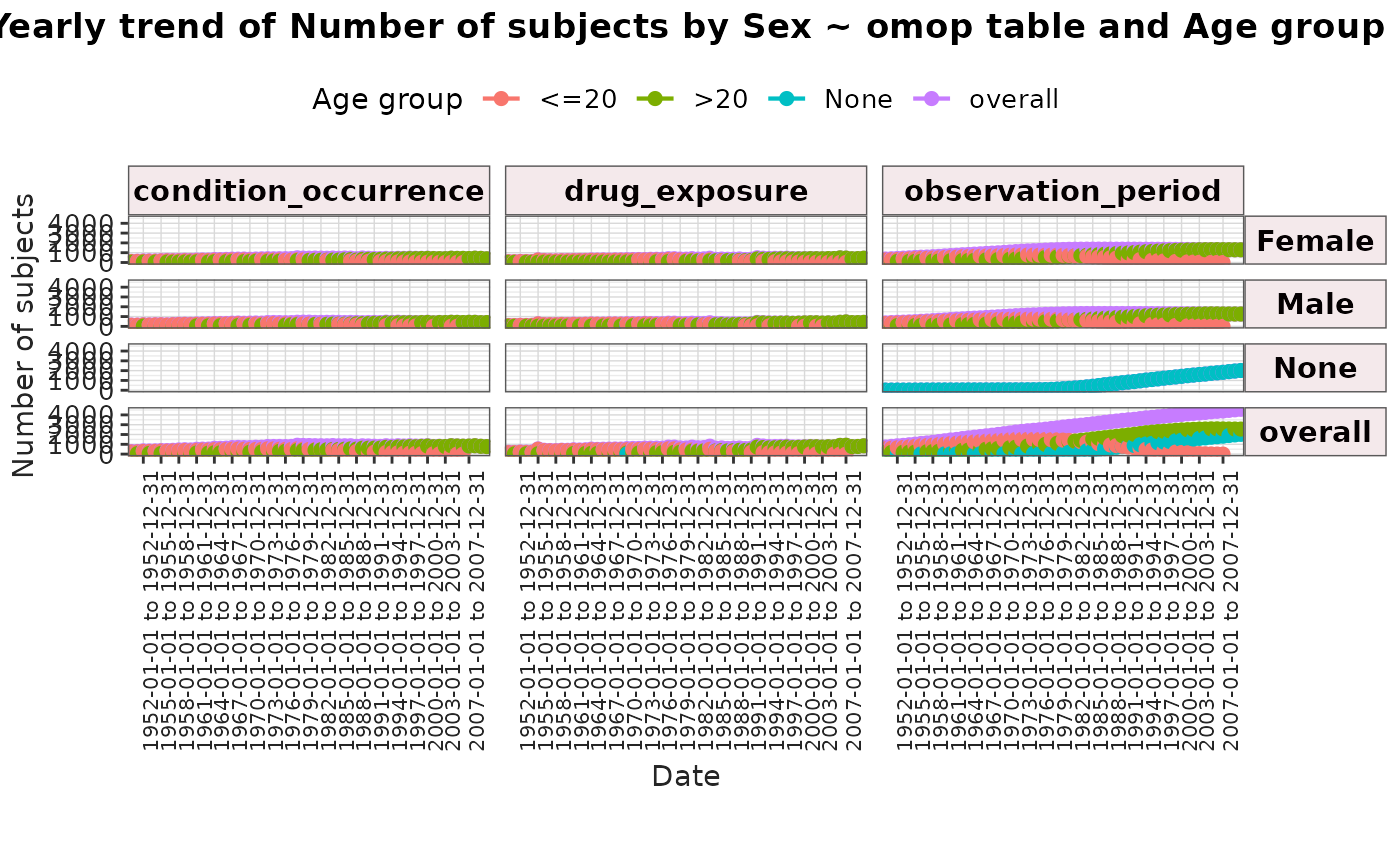
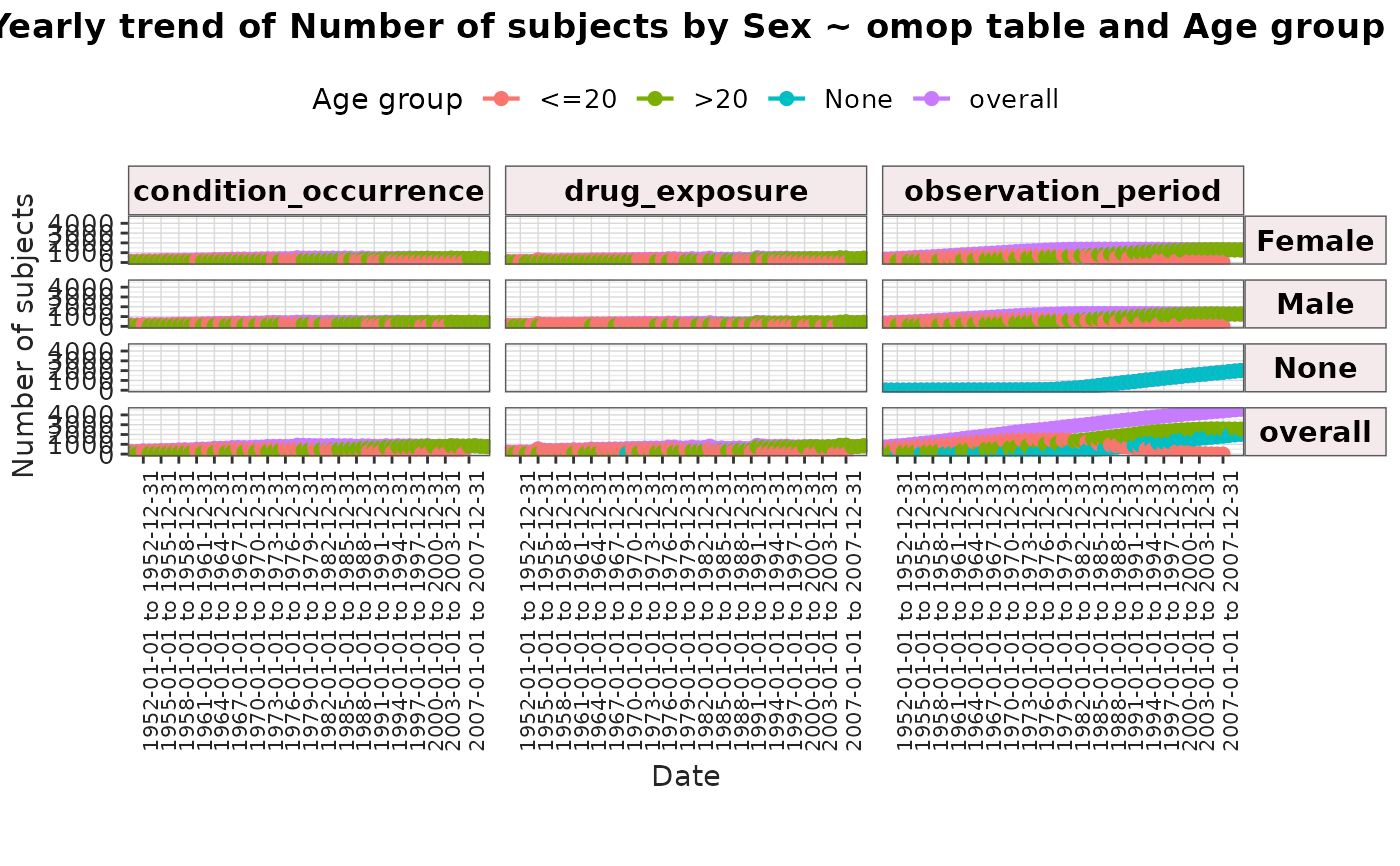
Deploying to gh-pages from @ OHDSI/OmopSketch@c50f2a3683270ff9c962209afc6366b7567da4c9 🚀

diff --git a/articles/summarise_concept_id_counts.html b/articles/summarise_concept_id_counts.html
@@ -160,12 +160,12 @@ vocabulary.</p>
 <span><span class="co">#&gt; Rows: 113</span></span>
 <span><span class="co">#&gt; Columns: 7</span></span>
 <span><span class="co">#&gt; $ group_level      <span style="color: #949494; font-style: italic;">&lt;chr&gt;</span> "drug_exposure"<span style="color: #949494;">, </span>"drug_exposure"<span style="color: #949494;">, </span>"drug_exposure"<span style="color: #949494;">, </span>"d…</span></span>
-<span><span class="co">#&gt; $ variable_name    <span style="color: #949494; font-style: italic;">&lt;chr&gt;</span> "Aspirin 81 MG Oral Tablet"<span style="color: #949494;">, </span>"hepatitis A vaccine, ad…</span></span>
-<span><span class="co">#&gt; $ variable_level   <span style="color: #949494; font-style: italic;">&lt;chr&gt;</span> "19059056"<span style="color: #949494;">, </span>"40213296"<span style="color: #949494;">, </span>"40213227"<span style="color: #949494;">, </span>"40173590"<span style="color: #949494;">, </span>"1912…</span></span>
+<span><span class="co">#&gt; $ variable_name    <span style="color: #949494; font-style: italic;">&lt;chr&gt;</span> "pneumococcal conjugate vaccine, 13 valent"<span style="color: #949494;">, </span>"zoster …</span></span>
+<span><span class="co">#&gt; $ variable_level   <span style="color: #949494; font-style: italic;">&lt;chr&gt;</span> "40213198"<span style="color: #949494;">, </span>"40213260"<span style="color: #949494;">, </span>"40162522"<span style="color: #949494;">, </span>"1127078"<span style="color: #949494;">, </span>"11274…</span></span>
 <span><span class="co">#&gt; $ estimate_name    <span style="color: #949494; font-style: italic;">&lt;chr&gt;</span> "count_records"<span style="color: #949494;">, </span>"count_records"<span style="color: #949494;">, </span>"count_records"<span style="color: #949494;">, </span>"c…</span></span>
-<span><span class="co">#&gt; $ estimate_value   <span style="color: #949494; font-style: italic;">&lt;chr&gt;</span> "4380"<span style="color: #949494;">, </span>"3211"<span style="color: #949494;">, </span>"7430"<span style="color: #949494;">, </span>"129"<span style="color: #949494;">, </span>"1056"<span style="color: #949494;">, </span>"1719"<span style="color: #949494;">, </span>"306"<span style="color: #949494;">,</span>…</span></span>
+<span><span class="co">#&gt; $ estimate_value   <span style="color: #949494; font-style: italic;">&lt;chr&gt;</span> "453"<span style="color: #949494;">, </span>"2125"<span style="color: #949494;">, </span>"312"<span style="color: #949494;">, </span>"2158"<span style="color: #949494;">, </span>"9365"<span style="color: #949494;">, </span>"1993"<span style="color: #949494;">, </span>"1087"<span style="color: #949494;">,</span>…</span></span>
 <span><span class="co">#&gt; $ additional_name  <span style="color: #949494; font-style: italic;">&lt;chr&gt;</span> "source_concept_id &amp;&amp;&amp; source_concept_name &amp;&amp;&amp; standa…</span></span>
-<span><span class="co">#&gt; $ additional_level <span style="color: #949494; font-style: italic;">&lt;chr&gt;</span> "19059056 &amp;&amp;&amp; Aspirin 81 MG Oral Tablet &amp;&amp;&amp; RxNorm &amp;&amp;…</span></span></code></pre></div>
+<span><span class="co">#&gt; $ additional_level <span style="color: #949494; font-style: italic;">&lt;chr&gt;</span> "40213198 &amp;&amp;&amp; pneumococcal conjugate vaccine, 13 vale…</span></span></code></pre></div>
 <p>By default, the function returns the number of records
 (<code>estimate_name == "count_records"</code>) for each standard
 concept ID. To count distinct subjects instead, set
@@ -181,16 +181,16 @@ counts, use <code>countBy = c("record", "person")</code>.</p>
 <span><span class="co">#&gt; <span style="color: #949494;"># A tibble: 226 × 3</span></span></span>
 <span><span class="co">#&gt;    variable_name                                    estimate_name estimate_value</span></span>
 <span><span class="co">#&gt;    <span style="color: #949494; font-style: italic;">&lt;chr&gt;</span>                                            <span style="color: #949494; font-style: italic;">&lt;chr&gt;</span>         <span style="color: #949494; font-style: italic;">&lt;chr&gt;</span>         </span></span>
-<span><span class="co">#&gt; <span style="color: #BCBCBC;"> 1</span> Aspirin 81 MG Oral Tablet                        count_records 4380          </span></span>
-<span><span class="co">#&gt; <span style="color: #BCBCBC;"> 2</span> Aspirin 81 MG Oral Tablet                        count_subjec… 1927          </span></span>
-<span><span class="co">#&gt; <span style="color: #BCBCBC;"> 3</span> hepatitis A vaccine, adult dosage                count_records 3211          </span></span>
-<span><span class="co">#&gt; <span style="color: #BCBCBC;"> 4</span> hepatitis A vaccine, adult dosage                count_subjec… 1737          </span></span>
-<span><span class="co">#&gt; <span style="color: #BCBCBC;"> 5</span> tetanus and diphtheria toxoids, adsorbed, prese… count_records 7430          </span></span>
-<span><span class="co">#&gt; <span style="color: #BCBCBC;"> 6</span> tetanus and diphtheria toxoids, adsorbed, prese… count_subjec… 2660          </span></span>
-<span><span class="co">#&gt; <span style="color: #BCBCBC;"> 7</span> Alendronic acid 10 MG Oral Tablet                count_records 129           </span></span>
-<span><span class="co">#&gt; <span style="color: #BCBCBC;"> 8</span> Alendronic acid 10 MG Oral Tablet                count_subjec… 129           </span></span>
-<span><span class="co">#&gt; <span style="color: #BCBCBC;"> 9</span> {7 (Inert Ingredients 1 MG Oral Tablet) / 21 (M… count_records 1056          </span></span>
-<span><span class="co">#&gt; <span style="color: #BCBCBC;">10</span> {7 (Inert Ingredients 1 MG Oral Tablet) / 21 (M… count_subjec… 605           </span></span>
+<span><span class="co">#&gt; <span style="color: #BCBCBC;"> 1</span> hepatitis B vaccine, adult dosage                count_records 1916          </span></span>
+<span><span class="co">#&gt; <span style="color: #BCBCBC;"> 2</span> hepatitis B vaccine, adult dosage                count_subjec… 1560          </span></span>
+<span><span class="co">#&gt; <span style="color: #BCBCBC;"> 3</span> Amoxicillin 250 MG / Clavulanate 125 MG Oral Ta… count_records 3851          </span></span>
+<span><span class="co">#&gt; <span style="color: #BCBCBC;"> 4</span> Amoxicillin 250 MG / Clavulanate 125 MG Oral Ta… count_subjec… 2021          </span></span>
+<span><span class="co">#&gt; <span style="color: #BCBCBC;"> 5</span> Phenazopyridine hydrochloride 100 MG Oral Tablet count_records 810           </span></span>
+<span><span class="co">#&gt; <span style="color: #BCBCBC;"> 6</span> Phenazopyridine hydrochloride 100 MG Oral Tablet count_subjec… 630           </span></span>
+<span><span class="co">#&gt; <span style="color: #BCBCBC;"> 7</span> Prednisone 5 MG Oral Tablet                      count_records 161           </span></span>
+<span><span class="co">#&gt; <span style="color: #BCBCBC;"> 8</span> Prednisone 5 MG Oral Tablet                      count_subjec… 116           </span></span>
+<span><span class="co">#&gt; <span style="color: #BCBCBC;"> 9</span> {7 (Ethinyl Estradiol 0.035 MG / norgestimate 0… count_records 449           </span></span>
+<span><span class="co">#&gt; <span style="color: #BCBCBC;">10</span> {7 (Ethinyl Estradiol 0.035 MG / norgestimate 0… count_subjec… 253           </span></span>
 <span><span class="co">#&gt; <span style="color: #949494;"># ℹ 216 more rows</span></span></span></code></pre></div>
 <p>Further stratification can be applied using the
 <code>interval</code>, <code>sex</code>, and <code>ageGroup</code>
@@ -213,9 +213,9 @@ intervals are assigned using the clinical record start date.</p>
 <span><span class="co">#&gt; Columns: 5</span></span>
 <span><span class="co">#&gt; $ group_level      <span style="color: #949494; font-style: italic;">&lt;chr&gt;</span> "condition_occurrence"<span style="color: #949494;">, </span>"condition_occurrence"<span style="color: #949494;">, </span>"cond…</span></span>
 <span><span class="co">#&gt; $ strata_level     <span style="color: #949494; font-style: italic;">&lt;chr&gt;</span> "overall"<span style="color: #949494;">, </span>"overall"<span style="color: #949494;">, </span>"overall"<span style="color: #949494;">, </span>"overall"<span style="color: #949494;">, </span>"overall"…</span></span>
-<span><span class="co">#&gt; $ variable_name    <span style="color: #949494; font-style: italic;">&lt;chr&gt;</span> "First degree burn"<span style="color: #949494;">, </span>"Osteoarthritis"<span style="color: #949494;">, </span>"Fracture of a…</span></span>
+<span><span class="co">#&gt; $ variable_name    <span style="color: #949494; font-style: italic;">&lt;chr&gt;</span> "Gastrointestinal hemorrhage"<span style="color: #949494;">, </span>"Acute viral pharyngit…</span></span>
 <span><span class="co">#&gt; $ estimate_name    <span style="color: #949494; font-style: italic;">&lt;chr&gt;</span> "count_subjects"<span style="color: #949494;">, </span>"count_subjects"<span style="color: #949494;">, </span>"count_subjects"<span style="color: #949494;">,</span>…</span></span>
-<span><span class="co">#&gt; $ additional_level <span style="color: #949494; font-style: italic;">&lt;chr&gt;</span> "4296204 &amp;&amp;&amp; First degree burn &amp;&amp;&amp; SNOMED &amp;&amp;&amp; SNOMED"…</span></span></code></pre></div>
+<span><span class="co">#&gt; $ additional_level <span style="color: #949494; font-style: italic;">&lt;chr&gt;</span> "35208414 &amp;&amp;&amp; Gastrointestinal hemorrhage, unspecifie…</span></span></code></pre></div>
 <p>When <code>inObservation = TRUE</code>, results are stratified by
 whether each record occurred within the subject’s observation
 period.</p>
@@ -272,10 +272,10 @@ provide the name of a cohort table in the CDM to restrict counts to its
 <span><span class="op">)</span> <span class="op">|&gt;</span></span>
 <span>  <span class="fu"><a href="https://dplyr.tidyverse.org/reference/select.html" class="external-link">select</a></span><span class="op">(</span><span class="va">group_level</span>, <span class="va">variable_name</span>, <span class="va">estimate_name</span><span class="op">)</span> <span class="op">|&gt;</span></span>
 <span>  <span class="fu"><a href="https://pillar.r-lib.org/reference/glimpse.html" class="external-link">glimpse</a></span><span class="op">(</span><span class="op">)</span></span>
-<span><span class="co">#&gt; Rows: 59</span></span>
+<span><span class="co">#&gt; Rows: 61</span></span>
 <span><span class="co">#&gt; Columns: 3</span></span>
 <span><span class="co">#&gt; $ group_level   <span style="color: #949494; font-style: italic;">&lt;chr&gt;</span> "condition_occurrence"<span style="color: #949494;">, </span>"condition_occurrence"<span style="color: #949494;">, </span>"conditi…</span></span>
-<span><span class="co">#&gt; $ variable_name <span style="color: #949494; font-style: italic;">&lt;chr&gt;</span> "Otitis media"<span style="color: #949494;">, </span>"Sinusitis"<span style="color: #949494;">, </span>"Acute bacterial sinusitis"…</span></span>
+<span><span class="co">#&gt; $ variable_name <span style="color: #949494; font-style: italic;">&lt;chr&gt;</span> "Sprain of ankle"<span style="color: #949494;">, </span>"Streptococcal sore throat"<span style="color: #949494;">, </span>"Sinusit…</span></span>
 <span><span class="co">#&gt; $ estimate_name <span style="color: #949494; font-style: italic;">&lt;chr&gt;</span> "count_records"<span style="color: #949494;">, </span>"count_records"<span style="color: #949494;">, </span>"count_records"<span style="color: #949494;">, </span>"coun…</span></span></code></pre></div>
 <div class="section level3">
 <h3 id="display-the-results">Display the results<a class="anchor" aria-label="anchor" href="#display-the-results"></a>

diff --git a/articles/summarise_clinical_tables_records.html b/articles/summarise_clinical_tables_records.html
@@ -156,9 +156,9 @@ clinical table in the CDM, <code>condition_occurrence</code>.</p>
 <span><span class="co">#&gt; <span style="color: #00BBBB;">•</span> duration: mean, sd, median, q25, q75, min, max</span></span>
 <span><span class="co">#&gt; <span style="color: #BBBB00;">!</span> Table is collected to memory as not all requested estimates are supported on</span></span>
 <span><span class="co">#&gt;   the database side</span></span>
-<span><span class="co">#&gt; → Start summary of data, at 2026-06-11 15:50:00.823025</span></span>
+<span><span class="co">#&gt; → Start summary of data, at 2026-06-16 11:17:09.828491</span></span>
 <span><span class="co">#&gt; </span></span>
-<span><span class="co">#&gt; <span style="color: #00BB00;">✔</span> Summary finished, at 2026-06-11 15:50:00.895498</span></span>
+<span><span class="co">#&gt; <span style="color: #00BB00;">✔</span> Summary finished, at 2026-06-16 11:17:09.908577</span></span>
 <span><span class="co">#&gt; <span style="color: #00BBBB;">ℹ</span> Summarising subjects not in person table in <span style="color: #0000BB;">condition_occurrence</span>.</span></span>
 <span><span class="co">#&gt; <span style="color: #00BBBB;">ℹ</span> Summarising records in observation in <span style="color: #0000BB;">condition_occurrence</span>.</span></span>
 <span><span class="co">#&gt; <span style="color: #00BBBB;">ℹ</span> Summarising records with start before birth date in <span style="color: #0000BB;">condition_occurrence</span>.</span></span>
@@ -208,9 +208,9 @@ person.</p>
 <span><span class="co">#&gt; <span style="color: #00BBBB;">•</span> duration: mean, sd, q05, q95</span></span>
 <span><span class="co">#&gt; <span style="color: #BBBB00;">!</span> Table is collected to memory as not all requested estimates are supported on</span></span>
 <span><span class="co">#&gt;   the database side</span></span>
-<span><span class="co">#&gt; → Start summary of data, at 2026-06-11 15:50:05.030195</span></span>
+<span><span class="co">#&gt; → Start summary of data, at 2026-06-16 11:17:14.355732</span></span>
 <span><span class="co">#&gt; </span></span>
-<span><span class="co">#&gt; <span style="color: #00BB00;">✔</span> Summary finished, at 2026-06-11 15:50:05.091667</span></span>
+<span><span class="co">#&gt; <span style="color: #00BB00;">✔</span> Summary finished, at 2026-06-16 11:17:14.423817</span></span>
 <span><span class="co">#&gt; <span style="color: #00BBBB;">ℹ</span> Summarising subjects not in person table in <span style="color: #0000BB;">condition_occurrence</span>.</span></span>
 <span><span class="co">#&gt; <span style="color: #00BBBB;">ℹ</span> Summarising records in observation in <span style="color: #0000BB;">condition_occurrence</span>.</span></span>
 <span><span class="co">#&gt; <span style="color: #00BBBB;">ℹ</span> Summarising records with start before birth date in <span style="color: #0000BB;">condition_occurrence</span>.</span></span>
@@ -394,9 +394,9 @@ age groups using the clinical record start date.</p>
 <span><span class="co">#&gt; <span style="color: #00BBBB;">•</span> duration: mean, sd, q05, q95</span></span>
 <span><span class="co">#&gt; <span style="color: #BBBB00;">!</span> Table is collected to memory as not all requested estimates are supported on</span></span>
 <span><span class="co">#&gt;   the database side</span></span>
-<span><span class="co">#&gt; → Start summary of data, at 2026-06-11 15:50:19.385462</span></span>
+<span><span class="co">#&gt; → Start summary of data, at 2026-06-16 11:17:30.048777</span></span>
 <span><span class="co">#&gt; </span></span>
-<span><span class="co">#&gt; <span style="color: #00BB00;">✔</span> Summary finished, at 2026-06-11 15:50:19.673733</span></span>
+<span><span class="co">#&gt; <span style="color: #00BB00;">✔</span> Summary finished, at 2026-06-16 11:17:30.369815</span></span>
 <span><span class="co">#&gt; <span style="color: #00BBBB;">ℹ</span> Summarising subjects not in person table in <span style="color: #0000BB;">condition_occurrence</span>.</span></span>
 <span><span class="co">#&gt; <span style="color: #00BBBB;">ℹ</span> Summarising records in observation in <span style="color: #0000BB;">condition_occurrence</span>.</span></span>
 <span><span class="co">#&gt; <span style="color: #00BBBB;">ℹ</span> Summarising records with start before birth date in <span style="color: #0000BB;">condition_occurrence</span>.</span></span>
@@ -441,16 +441,16 @@ same time:</p>
 <span><span class="co">#&gt; <span style="color: #00BBBB;">ℹ</span> Summarising records per person in <span style="color: #0000BB;">visit_occurrence</span>.</span></span>
 <span><span class="co">#&gt; <span style="color: #00BBBB;">ℹ</span> The following estimates will be calculated:</span></span>
 <span><span class="co">#&gt; <span style="color: #00BBBB;">•</span> duration: mean, sd</span></span>
-<span><span class="co">#&gt; → Start summary of data, at 2026-06-11 15:50:27.37416</span></span>
+<span><span class="co">#&gt; → Start summary of data, at 2026-06-16 11:17:38.840538</span></span>
 <span><span class="co">#&gt; </span></span>
-<span><span class="co">#&gt; <span style="color: #00BB00;">✔</span> Summary finished, at 2026-06-11 15:50:27.530982</span></span>
+<span><span class="co">#&gt; <span style="color: #00BB00;">✔</span> Summary finished, at 2026-06-16 11:17:39.01038</span></span>
 <span><span class="co">#&gt; <span style="color: #00BBBB;">ℹ</span> Adding variables of interest to <span style="color: #0000BB;">drug_exposure</span>.</span></span>
 <span><span class="co">#&gt; <span style="color: #00BBBB;">ℹ</span> Summarising records per person in <span style="color: #0000BB;">drug_exposure</span>.</span></span>
 <span><span class="co">#&gt; <span style="color: #00BBBB;">ℹ</span> The following estimates will be calculated:</span></span>
 <span><span class="co">#&gt; <span style="color: #00BBBB;">•</span> duration: mean, sd</span></span>
-<span><span class="co">#&gt; → Start summary of data, at 2026-06-11 15:50:29.162855</span></span>
+<span><span class="co">#&gt; → Start summary of data, at 2026-06-16 11:17:40.7815</span></span>
 <span><span class="co">#&gt; </span></span>
-<span><span class="co">#&gt; <span style="color: #00BB00;">✔</span> Summary finished, at 2026-06-11 15:50:29.316861</span></span>
+<span><span class="co">#&gt; <span style="color: #00BB00;">✔</span> Summary finished, at 2026-06-16 11:17:40.953872</span></span>
 <span></span>
 <span><span class="va">summarisedResult</span> <span class="op">|&gt;</span></span>
 <span>  <span class="fu"><a href="https://dplyr.tidyverse.org/reference/select.html" class="external-link">select</a></span><span class="op">(</span><span class="va">group_level</span>, <span class="va">variable_name</span>, <span class="va">estimate_name</span>, <span class="va">estimate_value</span><span class="op">)</span></span>
@@ -490,9 +490,9 @@ setting the <code>dateRange</code> argument.</p>
 <span><span class="co">#&gt; <span style="color: #00BBBB;">•</span> duration: mean, sd, median, q25, q75, min, max</span></span>
 <span><span class="co">#&gt; <span style="color: #BBBB00;">!</span> Table is collected to memory as not all requested estimates are supported on</span></span>
 <span><span class="co">#&gt;   the database side</span></span>
-<span><span class="co">#&gt; → Start summary of data, at 2026-06-11 15:50:31.974025</span></span>
+<span><span class="co">#&gt; → Start summary of data, at 2026-06-16 11:17:43.845697</span></span>
 <span><span class="co">#&gt; </span></span>
-<span><span class="co">#&gt; <span style="color: #00BB00;">✔</span> Summary finished, at 2026-06-11 15:50:32.036774</span></span>
+<span><span class="co">#&gt; <span style="color: #00BB00;">✔</span> Summary finished, at 2026-06-16 11:17:43.920525</span></span>
 <span><span class="co">#&gt; <span style="color: #00BBBB;">ℹ</span> Summarising subjects not in person table in <span style="color: #0000BB;">drug_exposure</span>.</span></span>
 <span><span class="co">#&gt; <span style="color: #00BBBB;">ℹ</span> Summarising records in observation in <span style="color: #0000BB;">drug_exposure</span>.</span></span>
 <span><span class="co">#&gt; <span style="color: #00BBBB;">ℹ</span> Summarising records with start before birth date in <span style="color: #0000BB;">drug_exposure</span>.</span></span>
@@ -543,9 +543,9 @@ global table options are used when available; otherwise, a <a href="https://gt.r
 <span><span class="co">#&gt; <span style="color: #00BBBB;">•</span> duration: mean, sd, q05, q95</span></span>
 <span><span class="co">#&gt; <span style="color: #BBBB00;">!</span> Table is collected to memory as not all requested estimates are supported on</span></span>
 <span><span class="co">#&gt;   the database side</span></span>
-<span><span class="co">#&gt; → Start summary of data, at 2026-06-11 15:50:37.426134</span></span>
+<span><span class="co">#&gt; → Start summary of data, at 2026-06-16 11:17:49.710866</span></span>
 <span><span class="co">#&gt; </span></span>
-<span><span class="co">#&gt; <span style="color: #00BB00;">✔</span> Summary finished, at 2026-06-11 15:50:37.565885</span></span>
+<span><span class="co">#&gt; <span style="color: #00BB00;">✔</span> Summary finished, at 2026-06-16 11:17:49.867423</span></span>
 <span><span class="co">#&gt; <span style="color: #00BBBB;">ℹ</span> Summarising subjects not in person table in <span style="color: #0000BB;">condition_occurrence</span>.</span></span>
 <span><span class="co">#&gt; <span style="color: #00BBBB;">ℹ</span> Summarising records in observation in <span style="color: #0000BB;">condition_occurrence</span>.</span></span>
 <span><span class="co">#&gt; <span style="color: #00BBBB;">ℹ</span> Summarising records with start before birth date in <span style="color: #0000BB;">condition_occurrence</span>.</span></span>

diff --git a/articles/summarise_trend.html b/articles/summarise_trend.html
@@ -381,9 +381,9 @@ start date and the interval start date.</p>
 <span><span class="op">)</span></span>
 <span><span class="co">#&gt; <span style="color: #00BBBB;">ℹ</span> The following estimates will be calculated:</span></span>
 <span><span class="co">#&gt; <span style="color: #00BBBB;">•</span> age: median</span></span>
-<span><span class="co">#&gt; → Start summary of data, at 2026-06-11 15:52:28.123307</span></span>
+<span><span class="co">#&gt; → Start summary of data, at 2026-06-16 11:19:46.540063</span></span>
 <span><span class="co">#&gt; </span></span>
-<span><span class="co">#&gt; <span style="color: #00BB00;">✔</span> Summary finished, at 2026-06-11 15:52:28.808134</span></span>
+<span><span class="co">#&gt; <span style="color: #00BB00;">✔</span> Summary finished, at 2026-06-16 11:19:47.265857</span></span>
 <span></span>
 <span><span class="va">summarisedResult</span> <span class="op">|&gt;</span></span>
 <span>  <span class="fu"><a href="https://dplyr.tidyverse.org/reference/select.html" class="external-link">select</a></span><span class="op">(</span><span class="va">variable_name</span>, <span class="va">additional_level</span>, <span class="va">estimate_name</span>, <span class="va">estimate_value</span><span class="op">)</span></span>
@@ -486,15 +486,15 @@ start date for episode tables.</p>
 <span><span class="op">)</span></span>
 <span><span class="co">#&gt; <span style="color: #00BBBB;">ℹ</span> The following estimates will be calculated:</span></span>
 <span><span class="co">#&gt; <span style="color: #00BBBB;">•</span> age: median</span></span>
-<span><span class="co">#&gt; → Start summary of data, at 2026-06-11 15:52:32.626131</span></span>
+<span><span class="co">#&gt; → Start summary of data, at 2026-06-16 11:19:51.322718</span></span>
 <span><span class="co">#&gt; </span></span>
-<span><span class="co">#&gt; <span style="color: #00BB00;">■■■■■■■■■■■■                    </span>3/8 group-strata combinations @ 2026-06-11 15:5…</span></span>
+<span><span class="co">#&gt; <span style="color: #00BB00;">■■■■■■■■■■■■                    </span>3/8 group-strata combinations @ 2026-06-16 11:1…</span></span>
 <span><span class="co">#&gt; </span></span>
-<span><span class="co">#&gt; <span style="color: #00BB00;">■■■■■■■■■■■■■■■■                </span>4/8 group-strata combinations @ 2026-06-11 15:5…</span></span>
+<span><span class="co">#&gt; <span style="color: #00BB00;">■■■■■■■■■■■■■■■■■■■■            </span>5/8 group-strata combinations @ 2026-06-16 11:1…</span></span>
 <span><span class="co">#&gt; </span></span>
-<span><span class="co">#&gt; <span style="color: #00BB00;">■■■■■■■■■■■■■■■■■■■■■■■■■■■■■■■ </span>8/8 group-strata combinations @ 2026-06-11 15:5…</span></span>
+<span><span class="co">#&gt; <span style="color: #00BB00;">■■■■■■■■■■■■■■■■■■■■■■■■■■■■■■■ </span>8/8 group-strata combinations @ 2026-06-16 11:1…</span></span>
 <span><span class="co">#&gt; </span></span>
-<span><span class="co">#&gt; <span style="color: #00BB00;">✔</span> Summary finished, at 2026-06-11 15:52:36.118803</span></span>
+<span><span class="co">#&gt; <span style="color: #00BB00;">✔</span> Summary finished, at 2026-06-16 11:19:55.156381</span></span>
 <span></span>
 <span><span class="va">summarisedResult</span> <span class="op">|&gt;</span></span>
 <span>  <span class="fu"><a href="https://dplyr.tidyverse.org/reference/select.html" class="external-link">select</a></span><span class="op">(</span><span class="va">variable_name</span>, <span class="va">strata_level</span>, <span class="va">estimate_name</span>, <span class="va">estimate_value</span><span class="op">)</span></span>
@@ -598,19 +598,19 @@ global table options are used when available; otherwise, a <a href="https://gt.r
 <span><span class="op">)</span></span>
 <span><span class="co">#&gt; <span style="color: #00BBBB;">ℹ</span> The following estimates will be calculated:</span></span>
 <span><span class="co">#&gt; <span style="color: #00BBBB;">•</span> age: median</span></span>
-<span><span class="co">#&gt; → Start summary of data, at 2026-06-11 15:52:38.324926</span></span>
+<span><span class="co">#&gt; → Start summary of data, at 2026-06-16 11:19:57.560344</span></span>
 <span><span class="co">#&gt; </span></span>
-<span><span class="co">#&gt; <span style="color: #00BB00;">✔</span> Summary finished, at 2026-06-11 15:52:38.995991</span></span>
+<span><span class="co">#&gt; <span style="color: #00BB00;">✔</span> Summary finished, at 2026-06-16 11:19:58.302469</span></span>
 <span><span class="co">#&gt; <span style="color: #00BBBB;">ℹ</span> The following estimates will be calculated:</span></span>
 <span><span class="co">#&gt; <span style="color: #00BBBB;">•</span> age: median</span></span>
-<span><span class="co">#&gt; → Start summary of data, at 2026-06-11 15:52:39.733417</span></span>
+<span><span class="co">#&gt; → Start summary of data, at 2026-06-16 11:19:59.075312</span></span>
 <span><span class="co">#&gt; </span></span>
-<span><span class="co">#&gt; <span style="color: #00BB00;">✔</span> Summary finished, at 2026-06-11 15:52:39.942749</span></span>
+<span><span class="co">#&gt; <span style="color: #00BB00;">✔</span> Summary finished, at 2026-06-16 11:19:59.293637</span></span>
 <span><span class="co">#&gt; <span style="color: #00BBBB;">ℹ</span> The following estimates will be calculated:</span></span>
 <span><span class="co">#&gt; <span style="color: #00BBBB;">•</span> age: median</span></span>
-<span><span class="co">#&gt; → Start summary of data, at 2026-06-11 15:52:45.309941</span></span>
+<span><span class="co">#&gt; → Start summary of data, at 2026-06-16 11:20:04.874291</span></span>
 <span><span class="co">#&gt; </span></span>
-<span><span class="co">#&gt; <span style="color: #00BB00;">✔</span> Summary finished, at 2026-06-11 15:52:45.782336</span></span>
+<span><span class="co">#&gt; <span style="color: #00BB00;">✔</span> Summary finished, at 2026-06-16 11:20:05.373605</span></span>
 <span><span class="fu"><a href="../reference/tableTrend.html">tableTrend</a></span><span class="op">(</span>result <span class="op">=</span> <span class="va">result</span><span class="op">)</span></span></code></pre></div>
 <div id="xolsgghllh" style="padding-left:0px;padding-right:0px;padding-top:10px;padding-bottom:10px;overflow-x:auto;overflow-y:auto;width:auto;height:auto;">
 <style>#xolsgghllh table {

diff --git a/reference/tableClinicalRecords.html b/reference/tableClinicalRecords.html
@@ -154,8 +154,8 @@ the selected table type.</p></li>
 <span class="r-msg co"><span class="r-pr">#&gt;</span> <span style="color: #00BBBB;">ℹ</span> Summarising records per person in <span style="color: #0000BB;">condition_occurrence</span>.</span>
 <span class="r-msg co"><span class="r-pr">#&gt;</span> <span style="color: #00BBBB;">ℹ</span> The following estimates will be calculated:</span>
 <span class="r-msg co"><span class="r-pr">#&gt;</span> <span style="color: #00BBBB;">•</span> duration: mean, sd</span>
-<span class="r-msg co"><span class="r-pr">#&gt;</span> → Start summary of data, at 2026-06-11 15:45:12.237772</span>
-<span class="r-msg co"><span class="r-pr">#&gt;</span> <span style="color: #00BB00;">✔</span> Summary finished, at 2026-06-11 15:45:12.380134</span>
+<span class="r-msg co"><span class="r-pr">#&gt;</span> → Start summary of data, at 2026-06-16 11:11:58.617481</span>
+<span class="r-msg co"><span class="r-pr">#&gt;</span> <span style="color: #00BB00;">✔</span> Summary finished, at 2026-06-16 11:11:58.769439</span>
 <span class="r-msg co"><span class="r-pr">#&gt;</span> <span style="color: #00BBBB;">ℹ</span> Summarising subjects not in person table in <span style="color: #0000BB;">condition_occurrence</span>.</span>
 <span class="r-msg co"><span class="r-pr">#&gt;</span> <span style="color: #00BBBB;">ℹ</span> Summarising records in observation in <span style="color: #0000BB;">condition_occurrence</span>.</span>
 <span class="r-msg co"><span class="r-pr">#&gt;</span> <span style="color: #00BBBB;">ℹ</span> Summarising records with start before birth date in <span style="color: #0000BB;">condition_occurrence</span>.</span>
@@ -169,8 +169,8 @@ the selected table type.</p></li>
 <span class="r-msg co"><span class="r-pr">#&gt;</span> <span style="color: #00BBBB;">ℹ</span> Summarising records per person in <span style="color: #0000BB;">drug_exposure</span>.</span>
 <span class="r-msg co"><span class="r-pr">#&gt;</span> <span style="color: #00BBBB;">ℹ</span> The following estimates will be calculated:</span>
 <span class="r-msg co"><span class="r-pr">#&gt;</span> <span style="color: #00BBBB;">•</span> duration: mean, sd</span>
-<span class="r-msg co"><span class="r-pr">#&gt;</span> → Start summary of data, at 2026-06-11 15:45:16.352968</span>
-<span class="r-msg co"><span class="r-pr">#&gt;</span> <span style="color: #00BB00;">✔</span> Summary finished, at 2026-06-11 15:45:16.496689</span>
+<span class="r-msg co"><span class="r-pr">#&gt;</span> → Start summary of data, at 2026-06-16 11:12:03.115855</span>
+<span class="r-msg co"><span class="r-pr">#&gt;</span> <span style="color: #00BB00;">✔</span> Summary finished, at 2026-06-16 11:12:03.275013</span>
 <span class="r-msg co"><span class="r-pr">#&gt;</span> <span style="color: #00BBBB;">ℹ</span> Summarising subjects not in person table in <span style="color: #0000BB;">drug_exposure</span>.</span>
 <span class="r-msg co"><span class="r-pr">#&gt;</span> <span style="color: #00BBBB;">ℹ</span> Summarising records in observation in <span style="color: #0000BB;">drug_exposure</span>.</span>
 <span class="r-msg co"><span class="r-pr">#&gt;</span> <span style="color: #00BBBB;">ℹ</span> Summarising records with start before birth date in <span style="color: #0000BB;">drug_exposure</span>.</span>

diff --git a/reference/summariseClinicalRecords.html b/reference/summariseClinicalRecords.html
@@ -188,8 +188,8 @@ If <code>dateRange</code> is <code>NULL</code>, no restriction is applied.</p></
 <span class="r-msg co"><span class="r-pr">#&gt;</span> <span style="color: #00BBBB;">ℹ</span> Summarising records per person in <span style="color: #0000BB;">condition_occurrence</span>.</span>
 <span class="r-msg co"><span class="r-pr">#&gt;</span> <span style="color: #00BBBB;">ℹ</span> The following estimates will be calculated:</span>
 <span class="r-msg co"><span class="r-pr">#&gt;</span> <span style="color: #00BBBB;">•</span> duration: mean, sd</span>
-<span class="r-msg co"><span class="r-pr">#&gt;</span> → Start summary of data, at 2026-06-11 15:43:21.92844</span>
-<span class="r-msg co"><span class="r-pr">#&gt;</span> <span style="color: #00BB00;">✔</span> Summary finished, at 2026-06-11 15:43:22.085478</span>
+<span class="r-msg co"><span class="r-pr">#&gt;</span> → Start summary of data, at 2026-06-16 11:09:57.919765</span>
+<span class="r-msg co"><span class="r-pr">#&gt;</span> <span style="color: #00BB00;">✔</span> Summary finished, at 2026-06-16 11:09:58.096811</span>
 <span class="r-msg co"><span class="r-pr">#&gt;</span> <span style="color: #00BBBB;">ℹ</span> Summarising subjects not in person table in <span style="color: #0000BB;">condition_occurrence</span>.</span>
 <span class="r-msg co"><span class="r-pr">#&gt;</span> <span style="color: #00BBBB;">ℹ</span> Summarising records in observation in <span style="color: #0000BB;">condition_occurrence</span>.</span>
 <span class="r-msg co"><span class="r-pr">#&gt;</span> <span style="color: #00BBBB;">ℹ</span> Summarising records with start before birth date in <span style="color: #0000BB;">condition_occurrence</span>.</span>

diff --git a/reference/summariseOmopSnapshot.html b/reference/summariseOmopSnapshot.html
@@ -100,7 +100,7 @@ to a database or <em>omock</em> to create a reference to synthetic data.</p></dd
     </tr></thead><tbody class="gt_table_body" style="border-style: none; border-top-style: solid; border-top-width: 3px; border-top-color: #F4E9EB; border-bottom-style: solid; border-bottom-width: 2px; border-bottom-color: #D3D3D3;"><tr class="gt_group_heading_row" style="border-style: none;"><th colspan="2" class="gt_group_heading" style="border-style: none; padding-top: 8px; padding-bottom: 8px; padding-left: 5px; padding-right: 5px; font-size: 100%; text-transform: inherit; vertical-align: middle; text-align: left; background-color: #F4E9EB; color: #040001; font-weight: bold; border-left-width: 1px; border-left-style: solid; border-left-color: #E6D208; border-right-width: 1px; border-right-style: solid; border-right-color: #E6D208; border-top-width: 1px; border-top-style: solid; border-top-color: #E6D208; border-bottom-width: 1px; border-bottom-style: solid; border-bottom-color: #E6D208;" scope="colgroup" id="General" bgcolor="#F4E9EB" valign="middle" align="left">General</th>
     </tr><tr class="gt_row_group_first" style="border-style: none;"><td headers="General  Estimate" class="gt_row gt_left" style="border-style: none; padding-top: 8px; padding-bottom: 8px; padding-left: 5px; padding-right: 5px; margin: 10px; vertical-align: middle; overflow-x: hidden; text-align: left; border-left-width: 0.5px; border-left-style: solid; border-left-color: #E6D208; border-right-width: 0.5px; border-right-style: solid; border-right-color: #E6D208; border-top-width: 0.5px; border-top-style: solid; border-top-color: #E6D208; border-bottom-width: 0.5px; border-bottom-style: solid; border-bottom-color: #E6D208; background-color: #FFFFFF;" align="left" bgcolor="#FFFFFF" valign="middle">Snapshot date</td>
 <td headers="General  [header_name]Database name
-[header_level]GiBleed" class="gt_row gt_left" style="border-style: none; padding-top: 8px; padding-bottom: 8px; padding-left: 5px; padding-right: 5px; margin: 10px; vertical-align: middle; overflow-x: hidden; text-align: right; background-color: #FFFFFF; border-left-width: 0.5px; border-left-style: solid; border-left-color: #E6D208; border-right-width: 0.5px; border-right-style: solid; border-right-color: #E6D208; border-top-width: 0.5px; border-top-style: solid; border-top-color: #E6D208; border-bottom-width: 0.5px; border-bottom-style: solid; border-bottom-color: #E6D208;" align="right" bgcolor="#FFFFFF" valign="middle">2026-06-11</td></tr><tr style="border-style: none;"><td headers="General  Estimate" class="gt_row gt_left" style="border-style: none; padding-top: 8px; padding-bottom: 8px; padding-left: 5px; padding-right: 5px; margin: 10px; vertical-align: middle; overflow-x: hidden; text-align: left; border-left-width: 0.5px; border-left-style: solid; border-left-color: #E6D208; border-right-width: 0.5px; border-right-style: solid; border-right-color: #E6D208; border-top-width: 0.5px; border-top-style: solid; border-top-color: #E6D208; border-bottom-width: 0.5px; border-bottom-style: solid; border-bottom-color: #E6D208; background-color: #FFFFFF;" align="left" bgcolor="#FFFFFF" valign="middle">Person count</td>
+[header_level]GiBleed" class="gt_row gt_left" style="border-style: none; padding-top: 8px; padding-bottom: 8px; padding-left: 5px; padding-right: 5px; margin: 10px; vertical-align: middle; overflow-x: hidden; text-align: right; background-color: #FFFFFF; border-left-width: 0.5px; border-left-style: solid; border-left-color: #E6D208; border-right-width: 0.5px; border-right-style: solid; border-right-color: #E6D208; border-top-width: 0.5px; border-top-style: solid; border-top-color: #E6D208; border-bottom-width: 0.5px; border-bottom-style: solid; border-bottom-color: #E6D208;" align="right" bgcolor="#FFFFFF" valign="middle">2026-06-16</td></tr><tr style="border-style: none;"><td headers="General  Estimate" class="gt_row gt_left" style="border-style: none; padding-top: 8px; padding-bottom: 8px; padding-left: 5px; padding-right: 5px; margin: 10px; vertical-align: middle; overflow-x: hidden; text-align: left; border-left-width: 0.5px; border-left-style: solid; border-left-color: #E6D208; border-right-width: 0.5px; border-right-style: solid; border-right-color: #E6D208; border-top-width: 0.5px; border-top-style: solid; border-top-color: #E6D208; border-bottom-width: 0.5px; border-bottom-style: solid; border-bottom-color: #E6D208; background-color: #FFFFFF;" align="left" bgcolor="#FFFFFF" valign="middle">Person count</td>
 <td headers="General  [header_name]Database name
 [header_level]GiBleed" class="gt_row gt_left" style="border-style: none; padding-top: 8px; padding-bottom: 8px; padding-left: 5px; padding-right: 5px; margin: 10px; vertical-align: middle; overflow-x: hidden; text-align: right; background-color: #FFFFFF; border-left-width: 0.5px; border-left-style: solid; border-left-color: #E6D208; border-right-width: 0.5px; border-right-style: solid; border-right-color: #E6D208; border-top-width: 0.5px; border-top-style: solid; border-top-color: #E6D208; border-bottom-width: 0.5px; border-bottom-style: solid; border-bottom-color: #E6D208;" align="right" bgcolor="#FFFFFF" valign="middle">2,694</td></tr><tr style="border-style: none;"><td headers="General  Estimate" class="gt_row gt_left" style="border-style: none; padding-top: 8px; padding-bottom: 8px; padding-left: 5px; padding-right: 5px; margin: 10px; vertical-align: middle; overflow-x: hidden; text-align: left; border-left-width: 0.5px; border-left-style: solid; border-left-color: #E6D208; border-right-width: 0.5px; border-right-style: solid; border-right-color: #E6D208; border-top-width: 0.5px; border-top-style: solid; border-top-color: #E6D208; border-bottom-width: 0.5px; border-bottom-style: solid; border-bottom-color: #E6D208; background-color: #FFFFFF;" align="left" bgcolor="#FFFFFF" valign="middle">Vocabulary version</td>
 <td headers="General  [header_name]Database name

diff --git a/reference/tableOmopSnapshot.html b/reference/tableOmopSnapshot.html
@@ -139,7 +139,7 @@ the selected table type.</p></li>
     </tr></thead><tbody class="gt_table_body" style="border-style: none; border-top-style: solid; border-top-width: 3px; border-top-color: #F4E9EB; border-bottom-style: solid; border-bottom-width: 2px; border-bottom-color: #D3D3D3;"><tr class="gt_group_heading_row" style="border-style: none;"><th colspan="2" class="gt_group_heading" style="border-style: none; padding-top: 8px; padding-bottom: 8px; padding-left: 5px; padding-right: 5px; font-size: 100%; text-transform: inherit; vertical-align: middle; text-align: left; background-color: #F4E9EB; color: #040001; font-weight: bold; border-left-width: 1px; border-left-style: solid; border-left-color: #E6D208; border-right-width: 1px; border-right-style: solid; border-right-color: #E6D208; border-top-width: 1px; border-top-style: solid; border-top-color: #E6D208; border-bottom-width: 1px; border-bottom-style: solid; border-bottom-color: #E6D208;" scope="colgroup" id="General" bgcolor="#F4E9EB" valign="middle" align="left">General</th>
     </tr><tr class="gt_row_group_first" style="border-style: none;"><td headers="General  Estimate" class="gt_row gt_left" style="border-style: none; padding-top: 8px; padding-bottom: 8px; padding-left: 5px; padding-right: 5px; margin: 10px; vertical-align: middle; overflow-x: hidden; text-align: left; border-left-width: 0.5px; border-left-style: solid; border-left-color: #E6D208; border-right-width: 0.5px; border-right-style: solid; border-right-color: #E6D208; border-top-width: 0.5px; border-top-style: solid; border-top-color: #E6D208; border-bottom-width: 0.5px; border-bottom-style: solid; border-bottom-color: #E6D208; background-color: #FFFFFF;" align="left" bgcolor="#FFFFFF" valign="middle">Snapshot date</td>
 <td headers="General  [header_name]Database name
-[header_level]GiBleed" class="gt_row gt_left" style="border-style: none; padding-top: 8px; padding-bottom: 8px; padding-left: 5px; padding-right: 5px; margin: 10px; vertical-align: middle; overflow-x: hidden; text-align: right; background-color: #FFFFFF; border-left-width: 0.5px; border-left-style: solid; border-left-color: #E6D208; border-right-width: 0.5px; border-right-style: solid; border-right-color: #E6D208; border-top-width: 0.5px; border-top-style: solid; border-top-color: #E6D208; border-bottom-width: 0.5px; border-bottom-style: solid; border-bottom-color: #E6D208;" align="right" bgcolor="#FFFFFF" valign="middle">2026-06-11</td></tr><tr style="border-style: none;"><td headers="General  Estimate" class="gt_row gt_left" style="border-style: none; padding-top: 8px; padding-bottom: 8px; padding-left: 5px; padding-right: 5px; margin: 10px; vertical-align: middle; overflow-x: hidden; text-align: left; border-left-width: 0.5px; border-left-style: solid; border-left-color: #E6D208; border-right-width: 0.5px; border-right-style: solid; border-right-color: #E6D208; border-top-width: 0.5px; border-top-style: solid; border-top-color: #E6D208; border-bottom-width: 0.5px; border-bottom-style: solid; border-bottom-color: #E6D208; background-color: #FFFFFF;" align="left" bgcolor="#FFFFFF" valign="middle">Person count</td>
+[header_level]GiBleed" class="gt_row gt_left" style="border-style: none; padding-top: 8px; padding-bottom: 8px; padding-left: 5px; padding-right: 5px; margin: 10px; vertical-align: middle; overflow-x: hidden; text-align: right; background-color: #FFFFFF; border-left-width: 0.5px; border-left-style: solid; border-left-color: #E6D208; border-right-width: 0.5px; border-right-style: solid; border-right-color: #E6D208; border-top-width: 0.5px; border-top-style: solid; border-top-color: #E6D208; border-bottom-width: 0.5px; border-bottom-style: solid; border-bottom-color: #E6D208;" align="right" bgcolor="#FFFFFF" valign="middle">2026-06-16</td></tr><tr style="border-style: none;"><td headers="General  Estimate" class="gt_row gt_left" style="border-style: none; padding-top: 8px; padding-bottom: 8px; padding-left: 5px; padding-right: 5px; margin: 10px; vertical-align: middle; overflow-x: hidden; text-align: left; border-left-width: 0.5px; border-left-style: solid; border-left-color: #E6D208; border-right-width: 0.5px; border-right-style: solid; border-right-color: #E6D208; border-top-width: 0.5px; border-top-style: solid; border-top-color: #E6D208; border-bottom-width: 0.5px; border-bottom-style: solid; border-bottom-color: #E6D208; background-color: #FFFFFF;" align="left" bgcolor="#FFFFFF" valign="middle">Person count</td>
 <td headers="General  [header_name]Database name
 [header_level]GiBleed" class="gt_row gt_left" style="border-style: none; padding-top: 8px; padding-bottom: 8px; padding-left: 5px; padding-right: 5px; margin: 10px; vertical-align: middle; overflow-x: hidden; text-align: right; background-color: #FFFFFF; border-left-width: 0.5px; border-left-style: solid; border-left-color: #E6D208; border-right-width: 0.5px; border-right-style: solid; border-right-color: #E6D208; border-top-width: 0.5px; border-top-style: solid; border-top-color: #E6D208; border-bottom-width: 0.5px; border-bottom-style: solid; border-bottom-color: #E6D208;" align="right" bgcolor="#FFFFFF" valign="middle">2,694</td></tr><tr style="border-style: none;"><td headers="General  Estimate" class="gt_row gt_left" style="border-style: none; padding-top: 8px; padding-bottom: 8px; padding-left: 5px; padding-right: 5px; margin: 10px; vertical-align: middle; overflow-x: hidden; text-align: left; border-left-width: 0.5px; border-left-style: solid; border-left-color: #E6D208; border-right-width: 0.5px; border-right-style: solid; border-right-color: #E6D208; border-top-width: 0.5px; border-top-style: solid; border-top-color: #E6D208; border-bottom-width: 0.5px; border-bottom-style: solid; border-bottom-color: #E6D208; background-color: #FFFFFF;" align="left" bgcolor="#FFFFFF" valign="middle">Vocabulary version</td>
 <td headers="General  [header_name]Database name